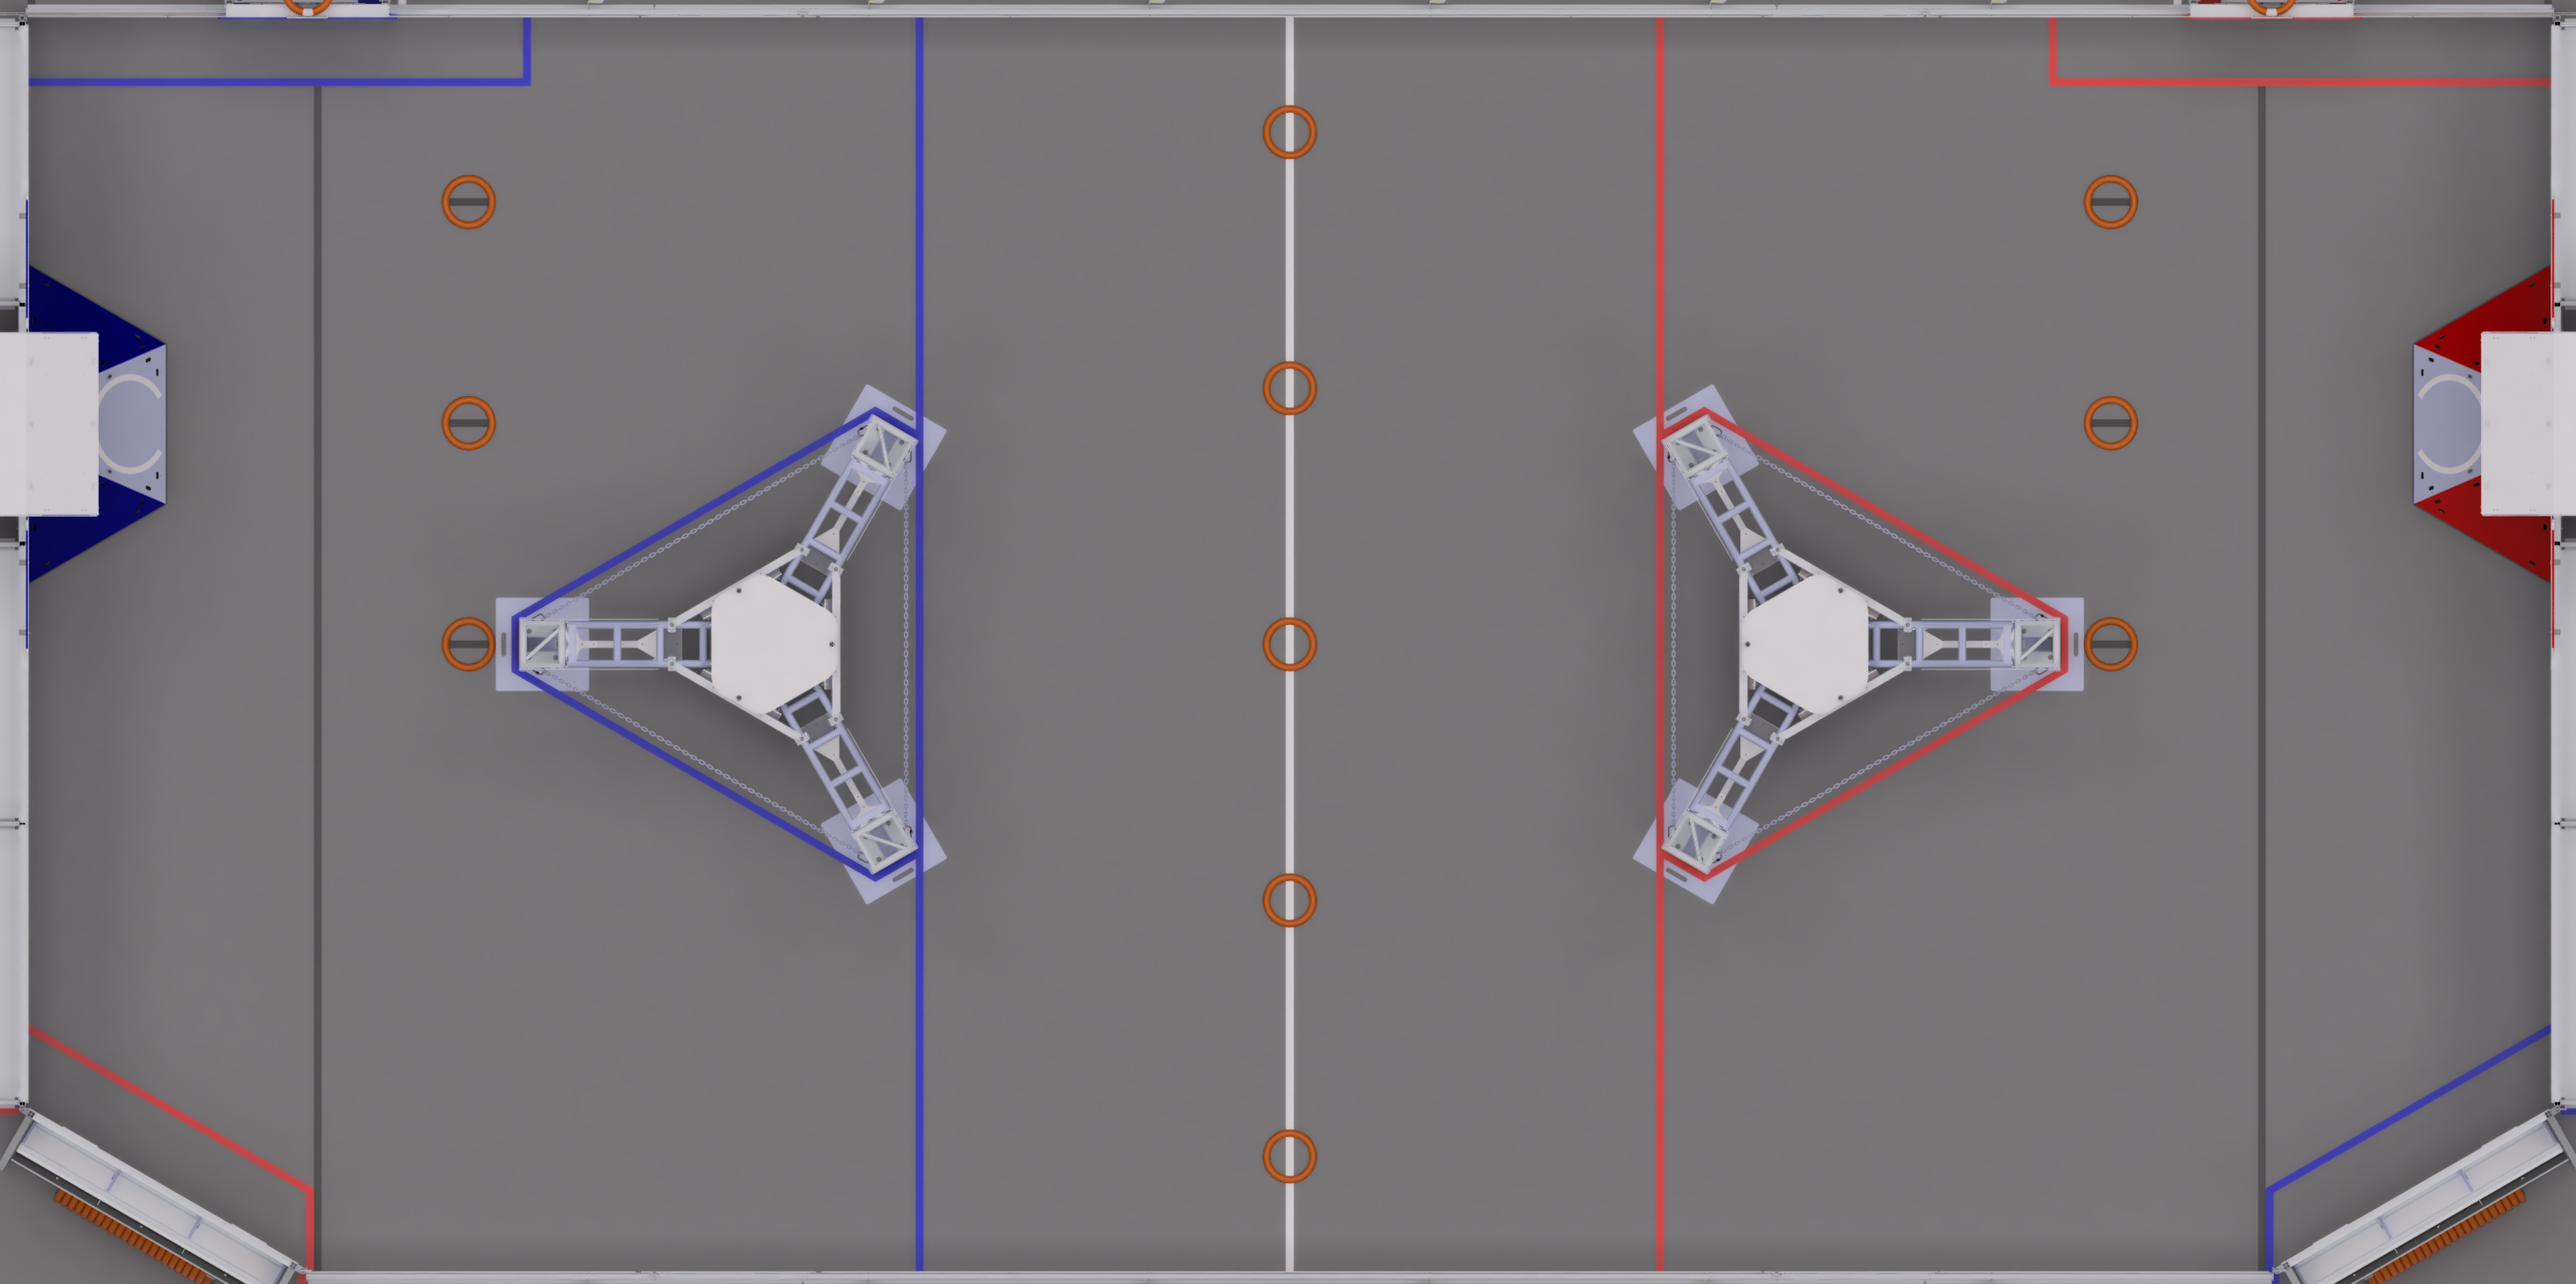
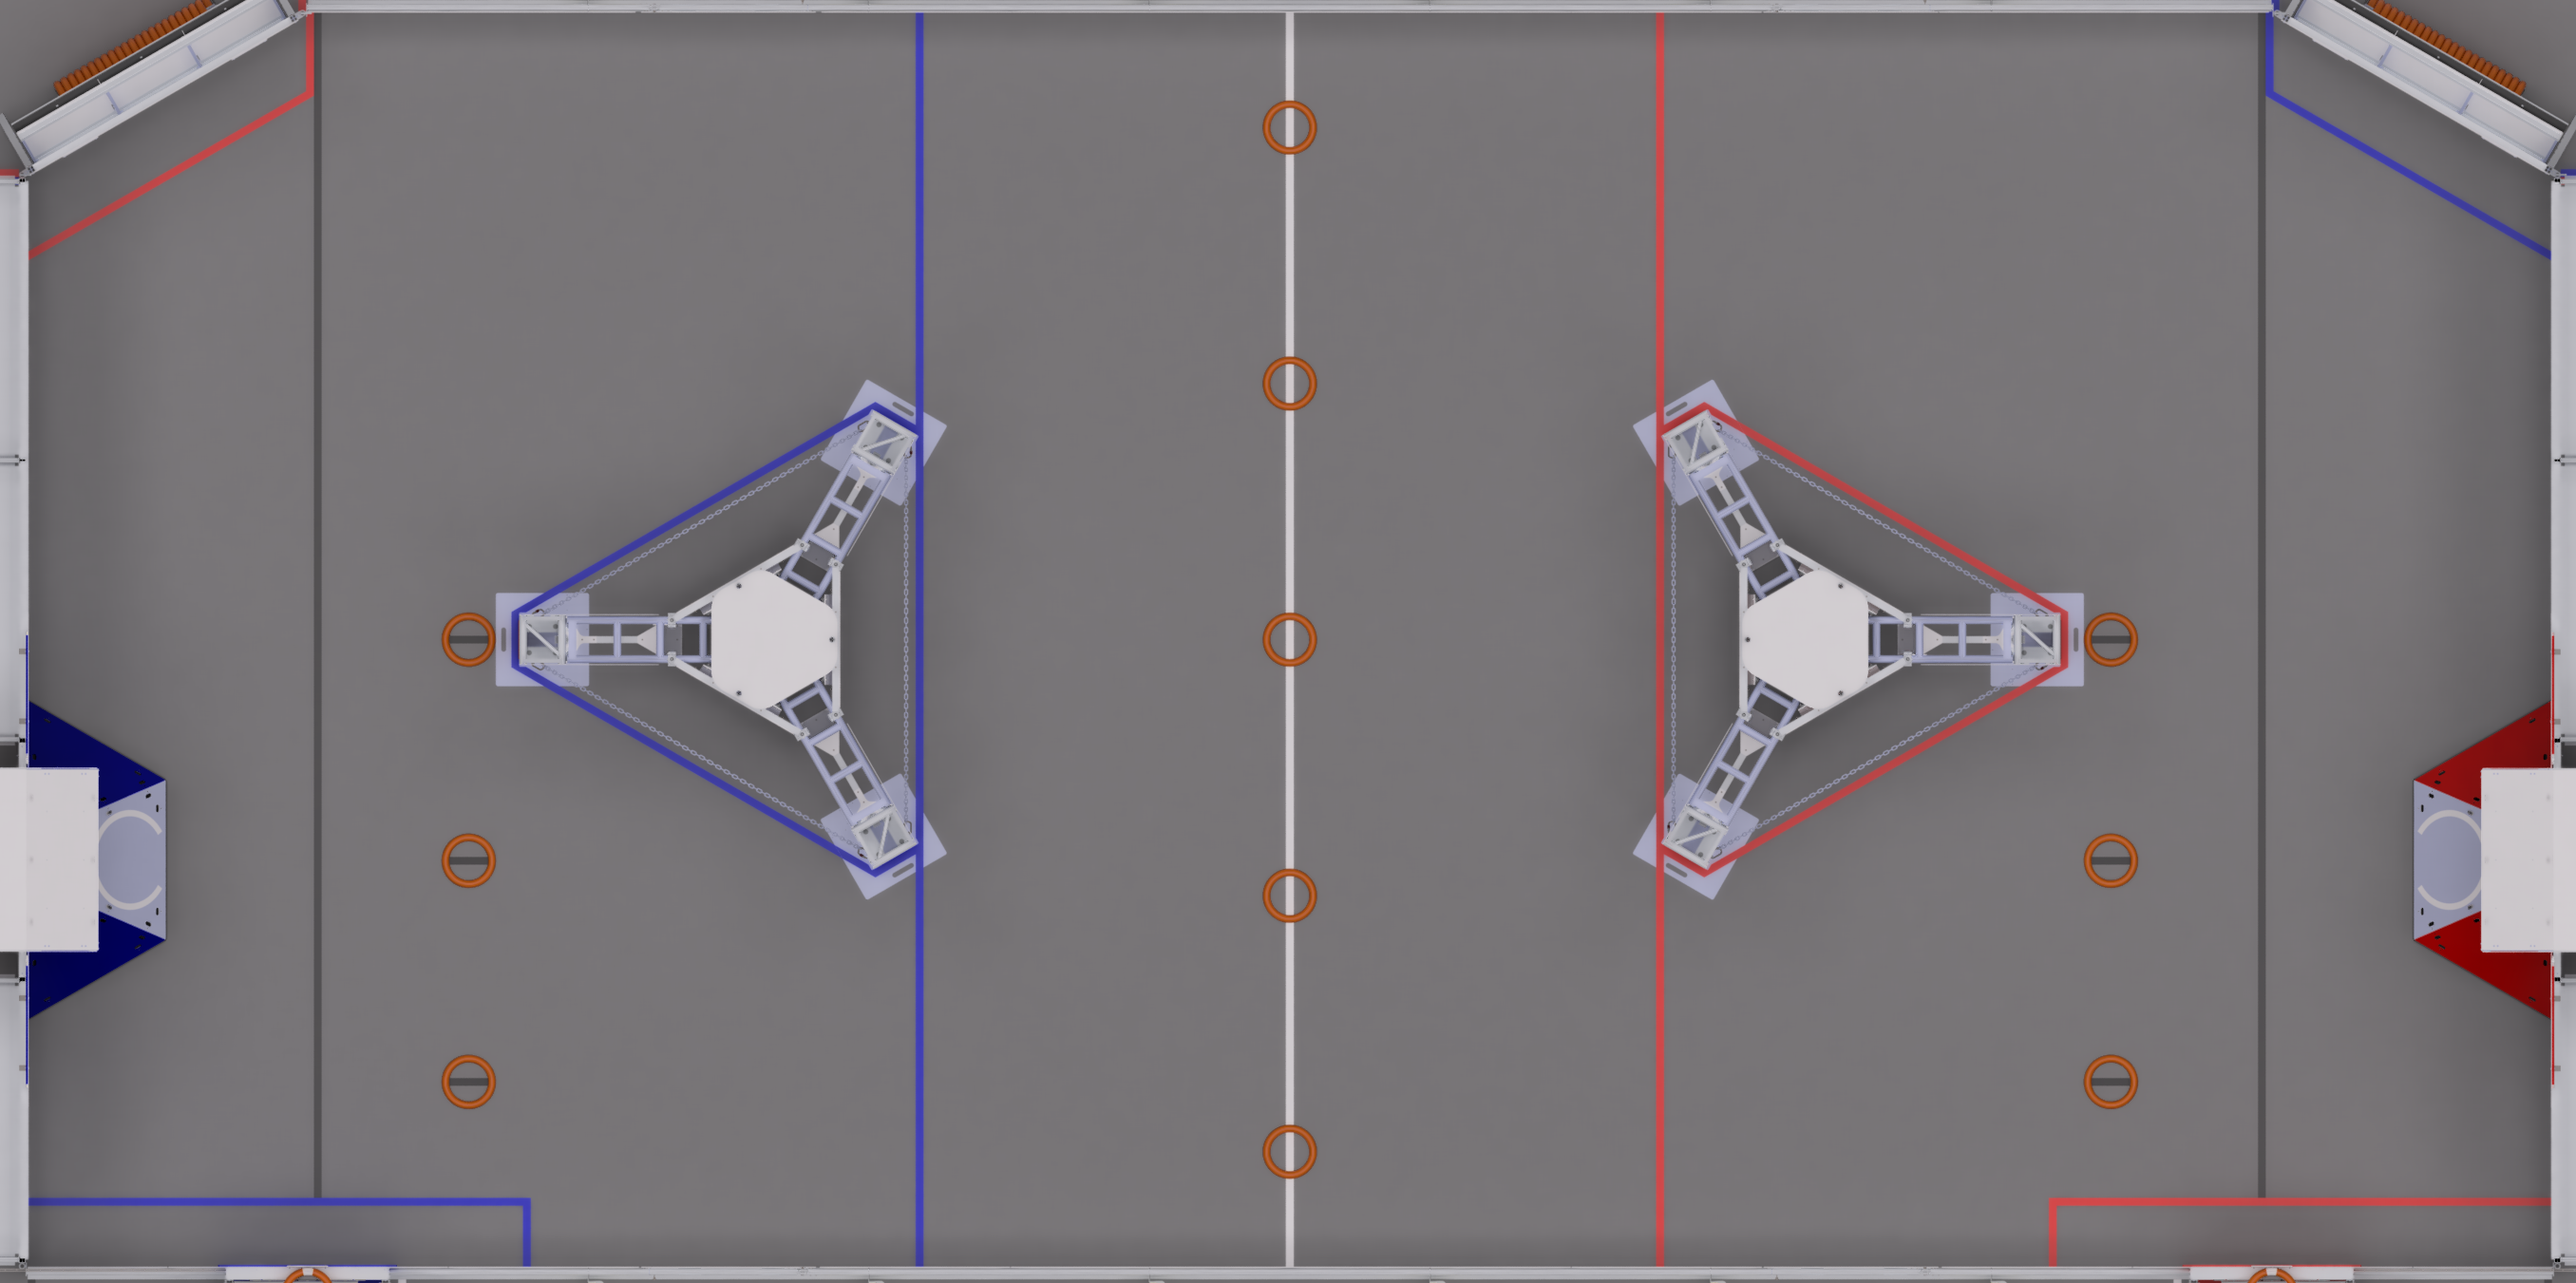
changed coordinate system to fit odometry

diff --git a/lime_light_code.py b/lime_light_code.py
@@ -66,12 +66,14 @@ last_is_accurate = False  # tells you if the last estimation is accurate
 #               }
 
 # these values are for refining the estimation
-MAX_VEL = 5  # maximum velocity of the robot, if passed we can assume there was a problem with the pose estimation
+MAX_VEL = 2  # maximum velocity of the robot, if passed we can assume there was a problem with the pose estimation
 MAX_ACCEL = 15000  # maximum acceleration of the robot, if passed we can assume there was a problem with the pose
-MIN_CONFIDENCE = 0.02
-SPEED_WEIGHT = 10  # how much weight we give speed in confidence estimation
-ROT_WEIGHT = 100  # how much weight we give the rotation in confidence estimation
+MIN_CONFIDENCE = 0.11
+SPEED_WEIGHT = 2  # how much weight we give speed in confidence estimation
+ROT_WEIGHT = 1.1  # how much weight we give the rotation in confidence estimation
+DISTANCE_FROM_AVG_WEIGHT = 6  # how much weight do we give to distance from the average in confidence estimation
 QUANTIZATION_LEVELS = 12  # how many levels do we want to divide the image to
+
 
 def denoise_frame(frame):
     processed_frame = copy.deepcopy(frame)
@@ -81,8 +83,12 @@ def denoise_frame(frame):
     processed_frame = cv2.medianBlur(processed_frame, 3)
     processed_frame = np.round(processed_frame * (QUANTIZATION_LEVELS / 255)) * (255 / QUANTIZATION_LEVELS)
     processed_frame = np.uint8(np.round(processed_frame))
-    return processed_frame
+    kernel = np.array([[0, -1, 0],
+                       [-1, 5, -1],
+                       [0, -1, 0]])
+    processed_frame = cv2.filter2D(processed_frame, -1, kernel)
 
+    return processed_frame
 
 def draw_tag_axis(frame, camera_oriented_axis_mat, projected_points):
     projected_z = project_point(camera_oriented_axis_mat[:3, 2], F_LENGTH_X,
@@ -100,42 +106,55 @@ def draw_tag_axis(frame, camera_oriented_axis_mat, projected_points):
              (0, 0, 255), 5)
 
 
-def estimate_confidence(xyz, abs_distance, rotation, delta_time):
+def estimate_confidence(xyz, abs_distance, rotation, delta_time, tag_id):
     return 1 / (abs_distance +
-                (SPEED_WEIGHT * (np.linalg.norm(last_pos_estimate - xyz) / delta_time) * int(last_is_accurate)) +
-                (ROT_WEIGHT * rotation[2]))
+                (SPEED_WEIGHT * (np.linalg.norm(last_pos_estimate - xyz) / delta_time))
+                + ((abs(settings.TAGS[tag_id].yaw + rotation[1]) % math.pi) * ROT_WEIGHT))
+
+
+def estimate_confidence_by_avg(conf: float, count: int, avg: np.ndarray, xyz: np.ndarray):
+    # NOTE: takes confidence to in case we'd want to expand the calculation
+    return count / ((1 / conf) + (DISTANCE_FROM_AVG_WEIGHT * np.linalg.norm(avg - xyz)))
 
 
 def submit_final_estimation(xyz: np.ndarray, rotation: list):
-    # TODO: add the part that sends the data to the robot here
-    # show_on_field.xyz = xyz
-    # show_on_field.rotation = rotation[1]
     with socket.socket(socket.AF_INET, socket.SOCK_DGRAM, socket.IPPROTO_UDP) as sock:
         sock.setsockopt(socket.SOL_SOCKET, socket.SO_BROADCAST, 1)
-        sock.sendto(struct.pack('fff', xyz[0],
+        sock.sendto(struct.pack('ffff', xyz[0],
                                 xyz[1],
-                                xyz[2]),
+                                tag.FIELD_HEIGHT - xyz[2],
+                                math.degrees(rotation[1])),
                     ("255.255.255.255", PORT))
-
 
 
 def refine_estimation(pose_estimates, rot_estimates, estimation_confidences, delta_time):
     global last_is_accurate, last_rot_estimate, last_pos_estimate, last_time
-    # this part refines estimation
+    count = len(pose_estimates)
+    # averaging out
+    avg_xyz = last_pos_estimate * int(last_is_accurate)
+    for p in pose_estimates:
+        avg_xyz += p
+    avg_xyz /= (count+int(last_is_accurate))
+
+    for i in range(count):
+        estimation_confidences[i] = estimate_confidence_by_avg(estimation_confidences[i], count, avg_xyz, pose_estimates[i])
 
     conf = 0
     cam_xyz = last_pos_estimate
     rotation = last_rot_estimate
-    for i in range(len(pose_estimates)):
+    for i in range(count):
         if estimation_confidences[i] > conf:
             cam_xyz = pose_estimates[i]
             rotation = rot_estimates[i]
             conf = estimation_confidences[i]
 
+
     # comparing to the last estimation
     delta_x = (cam_xyz - last_pos_estimate) * int(last_is_accurate)
     velocity = delta_x * (1 / delta_time)
-    if (conf < MIN_CONFIDENCE) and (np.linalg.norm(velocity) > MAX_VEL):
+
+    # print(np.linalg.norm(velocity))
+    if (conf < MIN_CONFIDENCE) or (np.linalg.norm(velocity) > MAX_VEL):
         if last_is_accurate:
             cam_xyz = last_pos_estimate
             rotation = last_rot_estimate
@@ -183,7 +202,7 @@ def runPipeline(image, llrobot):  # this function is in a format for putting it 
             # this part here does some epic pose estimation refinement
             pose_estimates.append(cam_xyz)
             rot_estimates.append(np.array(rotation))
-            estimation_confidences.append(estimate_confidence(cam_xyz, abs_distance, rotation, delta_time))
+            estimation_confidences.append(estimate_confidence(cam_xyz, abs_distance, rotation, delta_time, tag_id))
 
             # draw everything on the frame
             draw_tag_axis(frame, camera_oriented_axis_mat, projected_points)

diff --git a/main.py b/main.py
@@ -41,10 +41,10 @@ last_is_accurate = False  # tells you if the last estimation is accurate
 # these values are for refining the estimation
 MAX_VEL = 2  # maximum velocity of the robot, if passed we can assume there was a problem with the pose estimation
 MAX_ACCEL = 15000  # maximum acceleration of the robot, if passed we can assume there was a problem with the pose
-MIN_CONFIDENCE = 0.13
-SPEED_WEIGHT = 6  # how much weight we give speed in confidence estimation
+MIN_CONFIDENCE = 0.11
+SPEED_WEIGHT = 2  # how much weight we give speed in confidence estimation
 ROT_WEIGHT = 1.1  # how much weight we give the rotation in confidence estimation
-DISTANCE_FROM_AVG_WEIGHT = 3  # how much weight do we give to distance from the average in confidence estimation
+DISTANCE_FROM_AVG_WEIGHT = 6  # how much weight do we give to distance from the average in confidence estimation
 QUANTIZATION_LEVELS = 12  # how many levels do we want to divide the image to
 
 
@@ -86,20 +86,22 @@ def estimate_confidence(xyz, abs_distance, rotation, delta_time, tag_id):
                 + ((abs(settings.TAGS[tag_id].yaw + rotation[1]) % math.pi) * ROT_WEIGHT))
 
 
-def estimate_confidence_by_avg(conf: float, avg: np.ndarray, xyz: np.ndarray):
+def estimate_confidence_by_avg(conf: float, count: int, avg: np.ndarray, xyz: np.ndarray):
     # NOTE: takes confidence to in case we'd want to expand the calculation
-    return 1 / ((1 / conf) + (DISTANCE_FROM_AVG_WEIGHT * np.linalg.norm(avg - xyz)))
+    return count / ((1 / conf) + (DISTANCE_FROM_AVG_WEIGHT * np.linalg.norm(avg - xyz)))
 
 
 def submit_final_estimation(xyz: np.ndarray, rotation: list):
-    # TODO: add the part that sends the data to the robot here
+    xyz[2] *= -1
+    xyz[2] += tag.FIELD_HEIGHT
     show_on_field.xyz = xyz
-    show_on_field.rotation = rotation[1]
+    show_on_field.rotation = math.pi - rotation[1]
     with socket.socket(socket.AF_INET, socket.SOCK_DGRAM, socket.IPPROTO_UDP) as sock:
         sock.setsockopt(socket.SOL_SOCKET, socket.SO_BROADCAST, 1)
-        sock.sendto(struct.pack('fff', xyz[0],
+        sock.sendto(struct.pack('ffff', xyz[0],
                                 xyz[1],
-                                xyz[2]),
+                                xyz[2],
+                                math.degrees(rotation[1])),
                     ("255.255.255.255", PORT))
 
 
@@ -113,7 +115,7 @@ def refine_estimation(pose_estimates, rot_estimates, estimation_confidences, del
     avg_xyz /= (count+int(last_is_accurate))
 
     for i in range(count):
-        estimation_confidences[i] = estimate_confidence_by_avg(estimation_confidences[i], avg_xyz, pose_estimates[i])
+        estimation_confidences[i] = estimate_confidence_by_avg(estimation_confidences[i], count, avg_xyz, pose_estimates[i])
 
     conf = 0
     cam_xyz = last_pos_estimate
@@ -222,7 +224,6 @@ def test_with_sample_images():  # sample images were also taken with lifecam
             _, image, _ = runPipeline(image, None)
             cv2.imshow("display", image)
     cv2.destroyAllWindows()
-
 
 
 def test_with_cam():
